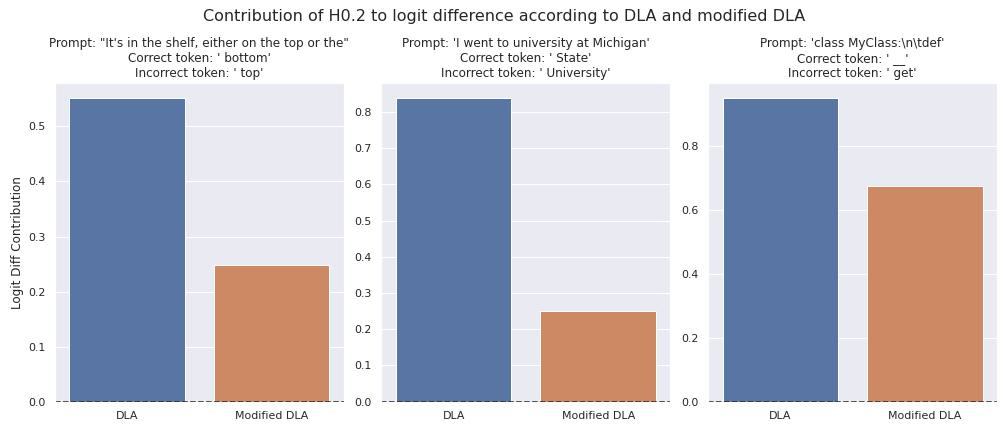
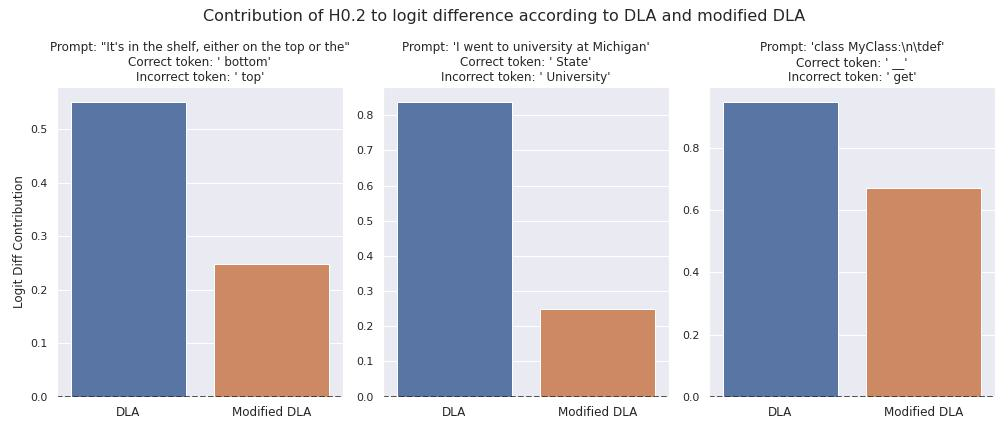
change fontsize

diff --git a/figure_recreation/fig9new_ori_and_modified_DLA_barplots.py b/figure_recreation/fig9new_ori_and_modified_DLA_barplots.py
@@ -155,7 +155,7 @@ for i in range(len(examples)):
         ax[i].set_ylabel("Logit Diff Contribution")
     else:
         ax[i].set_ylabel("")
-    ax[i].set_xticklabels(["DLA", "Modified DLA"])
+    ax[i].set_xticklabels(["DLA", "Modified DLA"], fontsize=12)
     ax[i].set_title(
         f"Prompt: {repr(examples[i]['text'])}\n"
         f"Correct token: {repr(examples[i]['correct'])}\n"
@@ -172,5 +172,3 @@ fig.tight_layout()
 # Save figure
 fig.savefig(FIG_FILEPATH)
 print(f"Saved figure to {FIG_FILEPATH}")
-
-# %%
